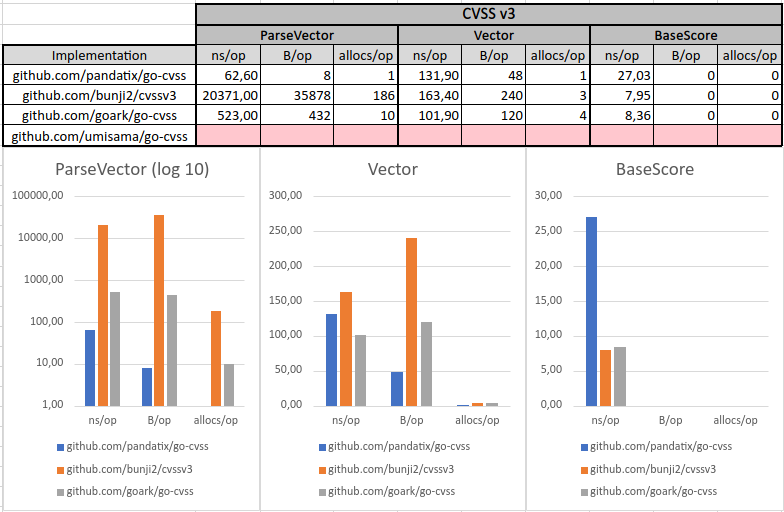
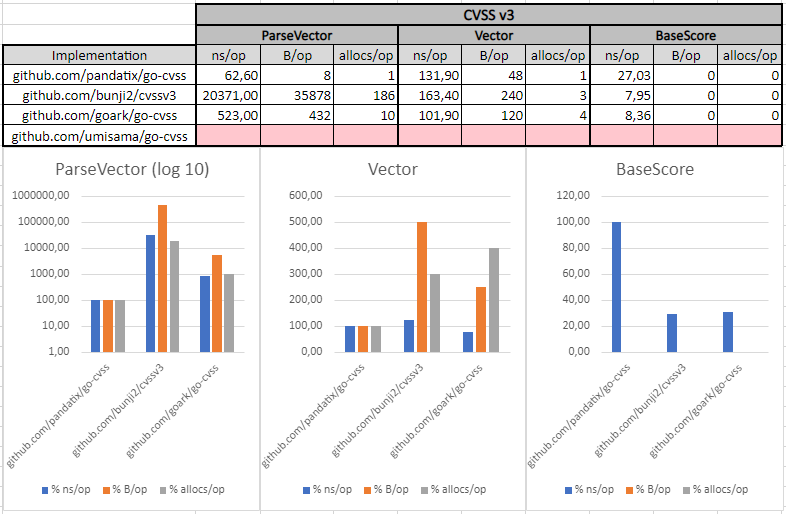
Improve benchmarks graphs

diff --git a/README.md b/README.md
@@ -158,6 +158,9 @@ Nevertheless, this has been judged over-optimizations for now, but a motivated d
 
 The following are the results of the comparison with others Go CVSS implementations, based on its own [benchmarking suite](./benchmarks).
 
+For each metric (`% ns/op`, `% B/op`, `% allocs/op`), the result of an implementation is normalised to the result of the current module for this given metric.
+This simply comparisons and shows how well it performs.
+
 Benchmarks results for CVSS v2.
 <div align="center">
 	<img src="res/benchmarks-results-cvss-v2.png">
